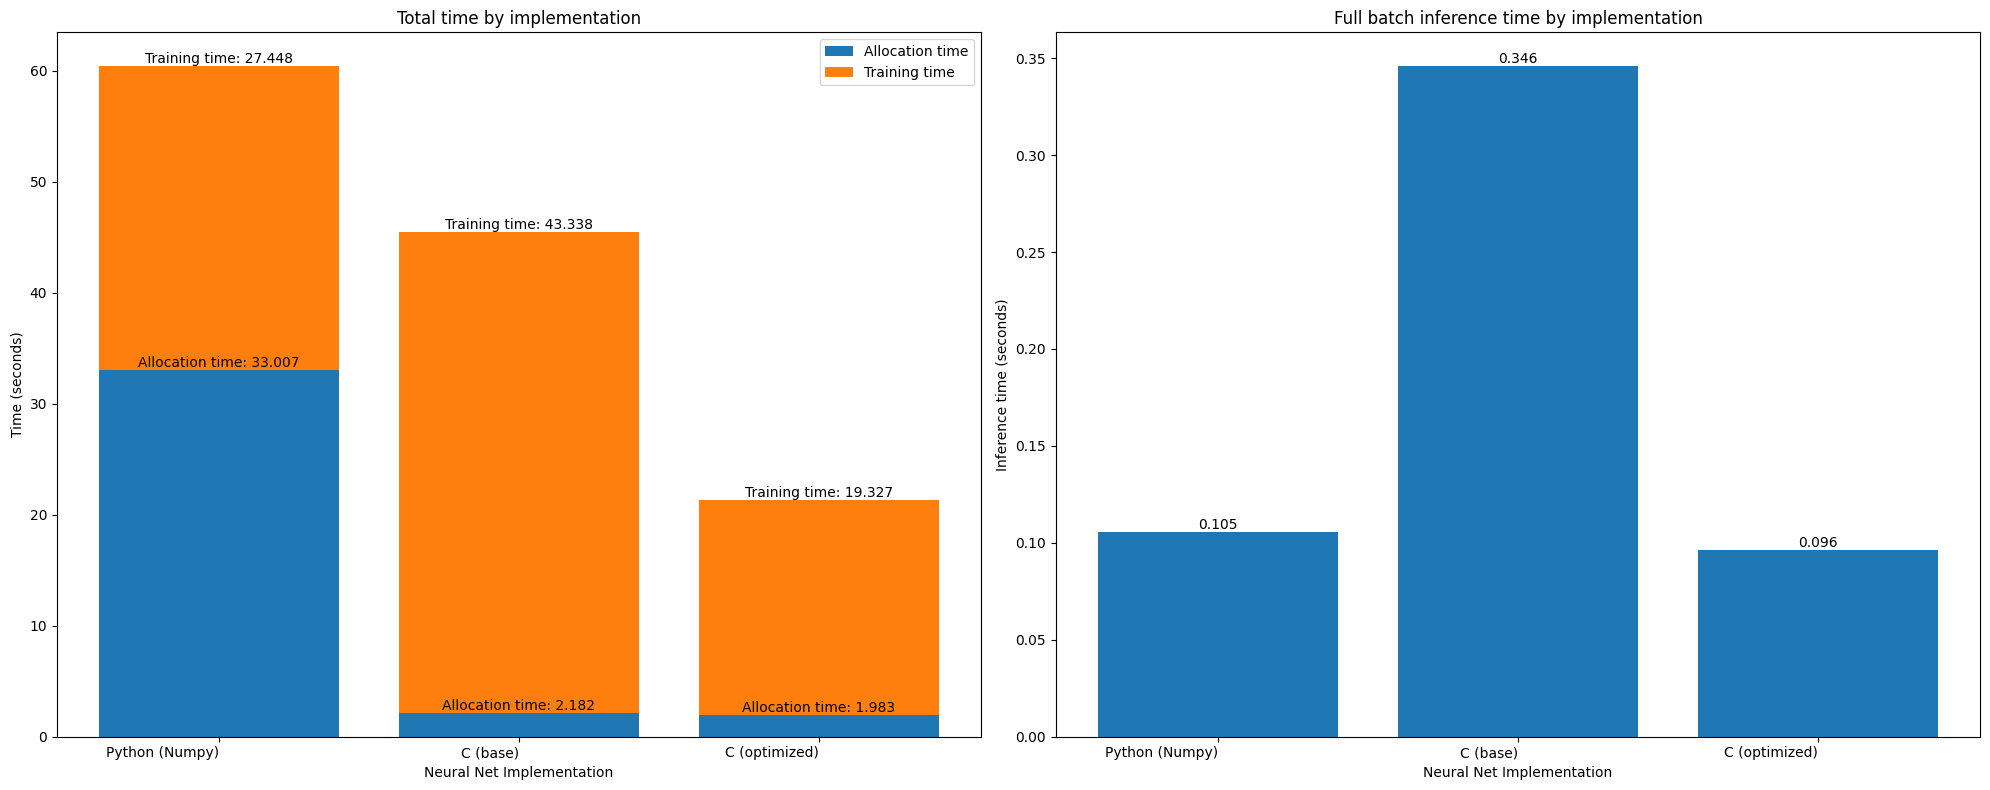
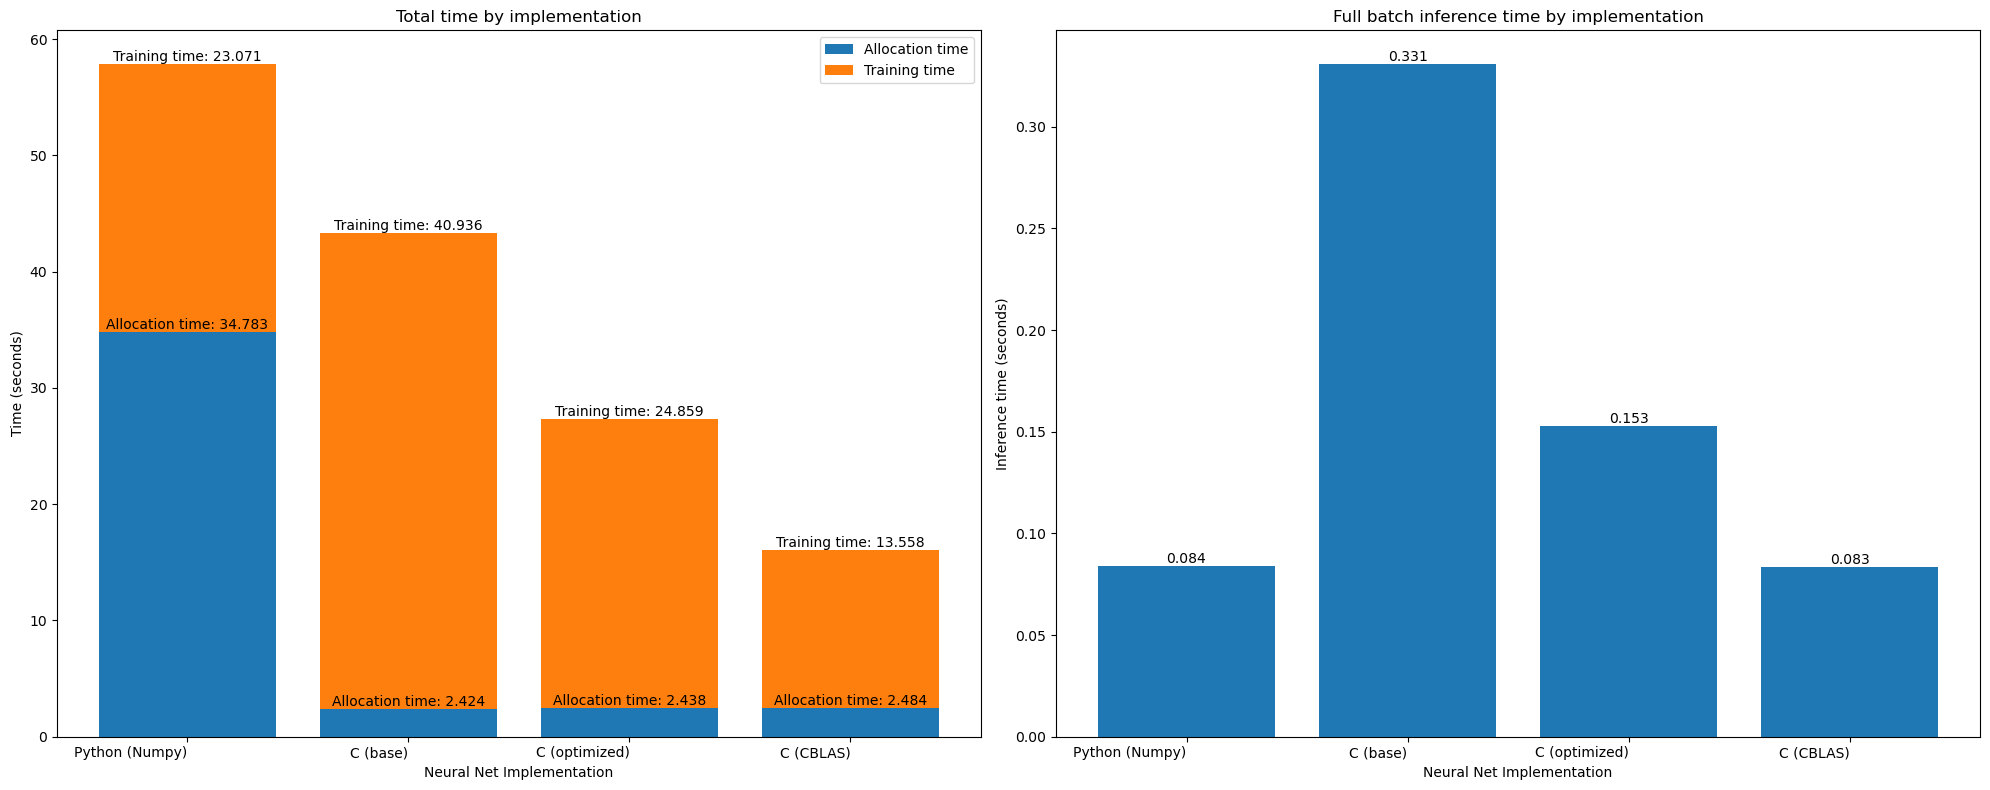
analysis

diff --git a/C_optimized_nn/matrix_operations.c b/C_optimized_nn/matrix_operations.c
@@ -6,7 +6,7 @@
 #include <time.h>
 #include <pthread.h>
 
-#define NUM_THREADS 10
+#define NUM_THREADS 5
 
 float *initialize_array(int nrows, int ncols) {
     float *arr = malloc(nrows * ncols * sizeof(float));

diff --git a/script.py b/script.py
@@ -95,7 +95,7 @@ def visualize_data(files):
         )
 
     plt.tight_layout()
-    plt.show()
+    #plt.show()
 
     # Save figures
     fig.savefig('combined_plot.png', format='png', bbox_inches='tight')

diff --git a/README.md b/README.md
@@ -1,45 +1,100 @@
+# MLP-Efficiency
+Evaluates the impact of various methods for improving the speed (memory access, training, inference) of neural nets using implementations in Numpy, OpenBLAS, and two of 
+my own C programs, all benchmarked on the MNIST dataset. 
 
-Next steps:
-DONE 0) look into replacing small matrix multiplication function with the one in matmul/clean folder. Test both of them there first
-DONE 1) put he initialization in base folder
-DONE 2) replace timing functions in base folder
-DONE 3) remove 'optimized' folder (probably rename 'improved' to 'optimized' after this)
-DONE 4) move python folder into project
-DONE 5) put he initialization in python folder
-DONE 5.5) put MNIST dataset in its own folder
-DONE 5.51) Reorg data output of C files
-DONE 6) create python script to run all versions
+![all](assets/all.png)
 
-    DONE- collect total program time 
-    DONE- collect total train time over 10,000 steps 
-    DONE - collect full dataset forward pass time
-    - collect cache misses
-    DONE - will need to put a suppress output (--data_collection) argument into the programs so that python can parse their output
-    DONE- graph each version's time in a bar chart
+Modern deep learning models frequently exceed 100 billion parameters and consume substantial time and resources during training, making efficient implementations vital.
+CPU-based MLP implementations trained on the MNIST dataset offer a small scale version of this problem from which to evaluate the effectiveness of several methods to accelerate
+deep learning tasks. 
 
-DONE 6.5) create a script to download MNIST dataset
+## Usage
 
-DONE 6.6) connect to github so that I can download and install CBLAS and make a version with that
-DONE 6.65) make script still work even when some things aren't downloaded
-DONE 6.7) get rid of references to 41000/42000 and replace with 59000/60000
-6.8) remove downloading behavior of matplotlib files
+Quick start: run `python3 script.py` to watch all the models train in real time. Add the `-visualize` flag to recreate the charts seen in this file.
+
+Run `python3 main.py` or `make` then `./mnist_nn` after changing to a program's directory to experiment with individual implementations.
+Several flags controlling batch size, additional visualizations, training iterations and more are already included, and are viewable by running the program with `-h` after it.
+
+## Takeaways
+
+I began this project by aiming to improve the training speed of the NumPy implementation, assuming that the extra effort of rewriting the program in C would reward me with a 
+faster program since it bypasses the Python interpreter with a directly compiled C executable. 
+
+Of course, NumPy is a highly optimized library and the C program I wrote took far longer to train than the original NumPy. 
+Deep learning is very matrix multiplication intensive, and profiling my program confirmed this: matrix multiplication alone accounted for 93% of the program runtime. 
+After researching and experimenting with a number of optimization techniques for matrix multiplication, I wrote an optimized variant of the C program, which roughly matches
+NumPy and will even outperform it, depending on which machine they're run on. 
+Finally, I used OpenBLAS in a third C program to determine the theoretical best performance on this task.
+
+## Optimization methods
+
+Training on MNIST with minibatch (default 100) stochastic gradient descent is too small of a problem to reasonably simulate larger problems, so
+the programs' default settings require a forward pass on all 60,000 patterns every 100 training steps to calculate train and test accuracy. These input matrices, being 6,000 
+times larger than training batches, account for the bulk of computation time and optimizations are therefore directed at them.
+
+The base C implementation holds data in 2d arrays and performs matrix multiplication using using the triple for loop method. The innermost loop iterates over the longest
+(batch) dimension, contributing to very strong cache locality. 
+
+The optimized C implementation further improves cache locality by storing matrices in 1D arrays. Further improvements proved challenging, since conventional efficient matrix
+multiplication techniques (Strassen's algorithm, matrix blocking, matrix transposition) failed to outperform the original `for` loops on the unevenly shaped input matrix. 
+Implementing SIMD instructions and efficient pointer arithmetic dramatically improved performance, but only when compiled without optimization flags. 
+Inspection of the base and optimized matrix multiplication function machine code confirmed that SIMD instructions, efficient pointer arithmetic, and loop unrolling are 
+automatically enabled when compiling with the -O3 flag, further narrowing opportunity for improvement.
+
+What did significantly improve performance was introducing a multithreading option for large input matrices into the matrix multiplication function. Splitting the batch 
+dimension calculations across 10 threads barely affected cache misses and parallelized the function, making it competitive with NumPy, which also utilizes multithreading.
+Such dramatic performance gains of 10 threads on a handful of CPU cores is a strong predictor
+
+Finally, to estimate the theoretical best performance on this problem, I benchmarked a version of the program using OpenBLAS for matrix multiplications, which unsurprisingly
+outperformed other implementations. 
 
 
-- put threads back to 10 to compare the full batch inference time
-- work on readme
+## Analysis
+
+The following figures were computing using `perf stat -e cache-misses,cache-references,instructions,cycles ./mnist_nn -iterations 100 -nodisplay`
+
+Cache misses (base): 21495784
+21495784      cache-misses                     #    8.01% of all cache refs         
+268371507      cache-references                                                      
+
+Cache misses (optimized)
+18940843      cache-misses                     #    7.22% of all cache refs         
+262199995      cache-references                                             
+
+Cache misses (CBLAS):
+19435207      cache-misses                     #   15.00% of all cache refs         
+129537933      cache-references                   
+
+The base C implementation has the most of both cache references and misses. The optimized version likely reduces both of these for two reasons: First, the optimized implementation
+stores matrices in 1-dimensional arrays rather than 2-dimensional, which means that even very large matrices are stored continguously in memory. Second, The optimized implementation
+employs multithreading, which should utilize multiple CPU cores, each of which contributes an L1 and often an L2 cache, resulting in more total cache memory. 
+CBLAS falls in between the others in cache misses, but has far less total references, likely due to the use of a technique such as Strassen's that reduces the number of 
+memory accesses and other powerful algorithmic optimizations. Unsuprisingly, it's a balance between efficient algorithms and efficient memory access patterns that yields optimal
+performance.
+
+On that note, efficiently training deep learning models is dependent on more than just hardware oriented optimizations. A basic example of this is the usage of He weight
+initialization rather than sampling from a uniform distribution. The neural networks in this project trained to 90% accuracy with He initilization in just 100-200 training steps, 
+roughly 80% faster than the 500-1000 steps needed to reach 90% accuracy with weights sampled from a uniform distribution.
+
+## Acknowledgements
+
+I found the following resources invaluable during the course of this project:
+
+[Python/NumPy MLP](https://www.kaggle.com/code/wwsalmon/simple-mnist-nn-from-scratch-numpy-no-tf-keras) This program forms the backbone of the NumPy implementation in this repo.
+
+[Matrix Multiplication Optimization Lecture](https://ocw.mit.edu/courses/6-172-performance-engineering-of-software-systems-fall-2018/resources/lecture-1-intro-and-matrix-multiplicati
+on/) This lecture and pieces of other lectures from the same course established my understanding of optimizing matrix multiplication and introduced me to the most effective methods.
+
+[BLISlab: A Sandbox for Optimizing GEMM](https://github.com/flame/blislab) Helped me learn through experimentation what works and what doesn't in optimizing matrix multiplication.
+
+
+
 
 7) create a README.md file
-    - hook visualization
-    - usage instructions
     - discuss completely unoptimized C time
     - discuss methods used (compiler flags, flattening matrices, SIMD, threads, loop ordering, pointer arithmetic, etc)
     - show rest of graphics
-    - discuss methods that didn't work (Strassen's, blocking) and why (matrices are very odd shapes)
-    - discuss He initialization (trains to 90% accuracy in 1-2 epochs rather than 5-10 with uniform distr initialization)
-    - Acknowledgements
-        - fire matmul teacher thing
-        - Samson Zhang video
-        - maybe coffee before arch videos for general knowledge
+
 
 
 
